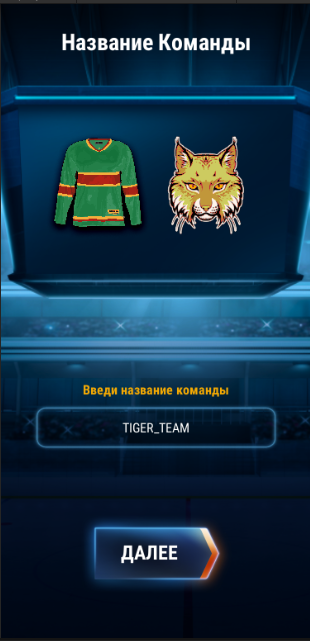
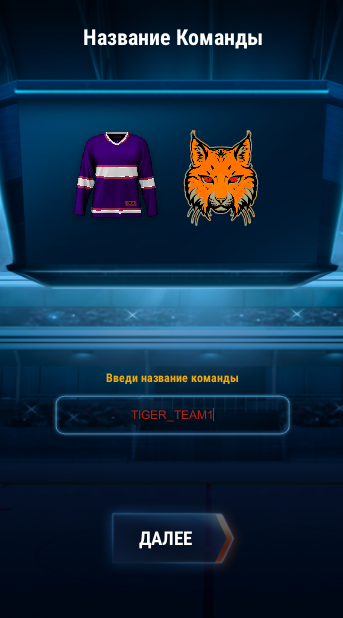
подправлено readme

diff --git a/Assets/save.cs b/Assets/save.cs
@@ -17,14 +17,14 @@ public class save : MonoBehaviour {
     void Awake() {
         form = GameObject.Find("formImage");
         logo = GameObject.Find("LogoImage");
-        inputField.characterLimit = 10;
+        inputField.characterLimit = 11;
         saveList = new List<Transform>();
         button = GameObject.Find("Next_button").GetComponent<Button>();
         // inputField = transform.Find("InputField").GetComponent<InputField>();
     }
 
     void Update() {
-        if (inputField.text.Length >= 10) {
+        if (inputField.text.Length > 10) {
             inputField.transform.Find("Text").GetComponent<Text>().color = new Color(0.713f, 0.133f, 0.0902f, 1f);
             button.GetComponent<Image>().color = new Color(1, 1, 1, 0.4f);
             // Debug.Log("asd");

diff --git a/readme.md b/readme.md
@@ -1,9 +1,8 @@
-Реализовано изменение цвета с помощью шейдеров. У формы цвет меняются в 3ех частях в зависимости от нажатия центральных кнопок и выбора цвета из палитры. Если часть для изменения не выбрана, то меняется основной цвет (при похожих оттенках цвета частей могут сливаться).
+Реализовано изменение цвета с помощью шейдера. У Формы и Лого цвета меняются в 3ех частях в зависимости от нажатия центральных кнопок и выбора цвета из палитры. Если часть для изменения не выбрана, то меняется основной цвет (при похожих оттенках цвета частей могут сливаться, <b>цвета могут отображаться некорректно </b> из-за того, что учитывается базовый цвет элемента). 
 Рандомная генерация подбирает цвета для всех 3 частей как для формы, так и для лого.
-Таким же образом реализовано  изменение 3ех цветов логотипа.
-Центральные кнопки отображают цвета своих частей.  
+Центральные кнопки отображают цвета частей, которые были изменены.  
 Экран названия команды сохраняет цвета материалов, которые прикриплены к объекту Image.
-По нажатию кнопки Далее происходит сохранение цветов всех 3 частей формы, лого и названия команды через PlayerPrefs, если в поле ввода не более 10 символов. В ином случае текст подсвечивается, кнопка тухнет и ввод не активен.
+По нажатию кнопки Далее происходит сохранение цветов всех 3 частей формы, лого и названия команды через PlayerPrefs, если в поле ввода не более 10 символов. В ином случае текст подсвечивается красным, кнопка тухнет и ввод не происходит.
 <div align="center">
     <img src="main_color.png" >
     <p>Изменение цветов формы</p>
